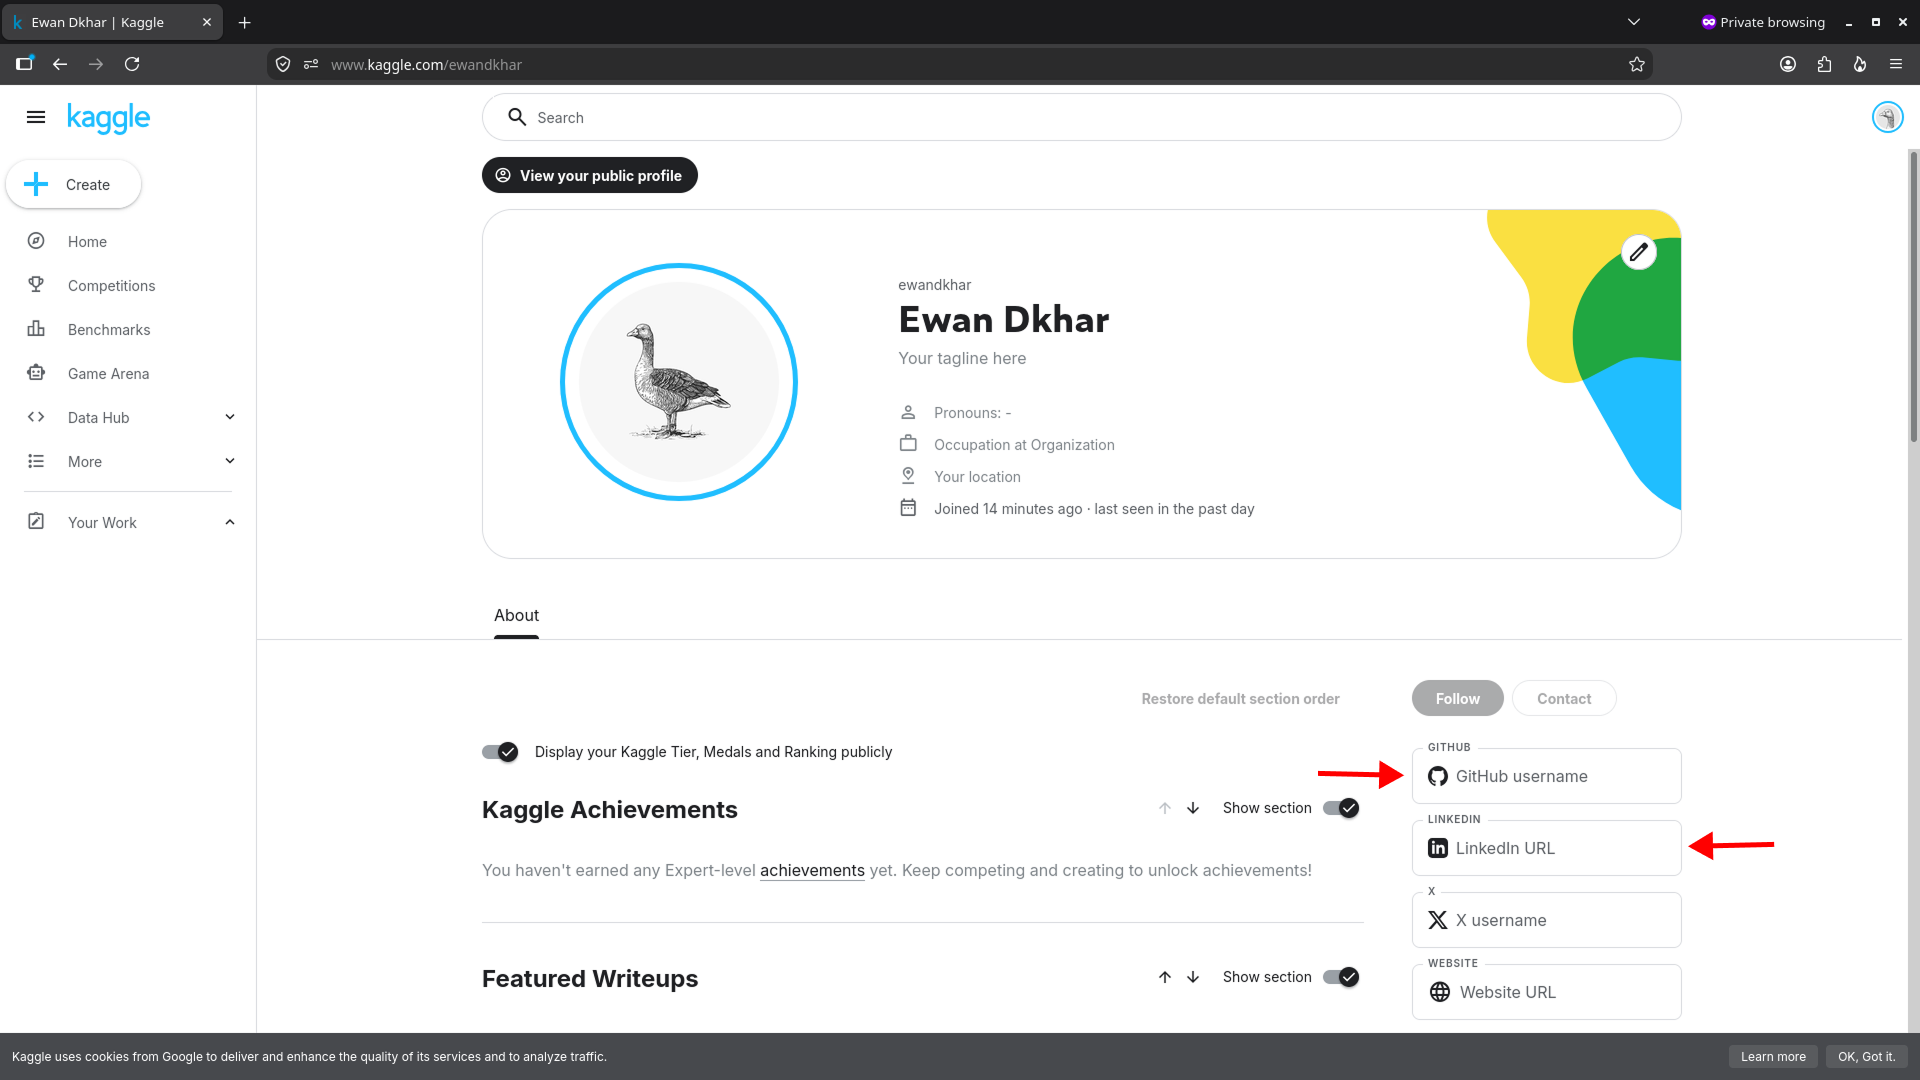
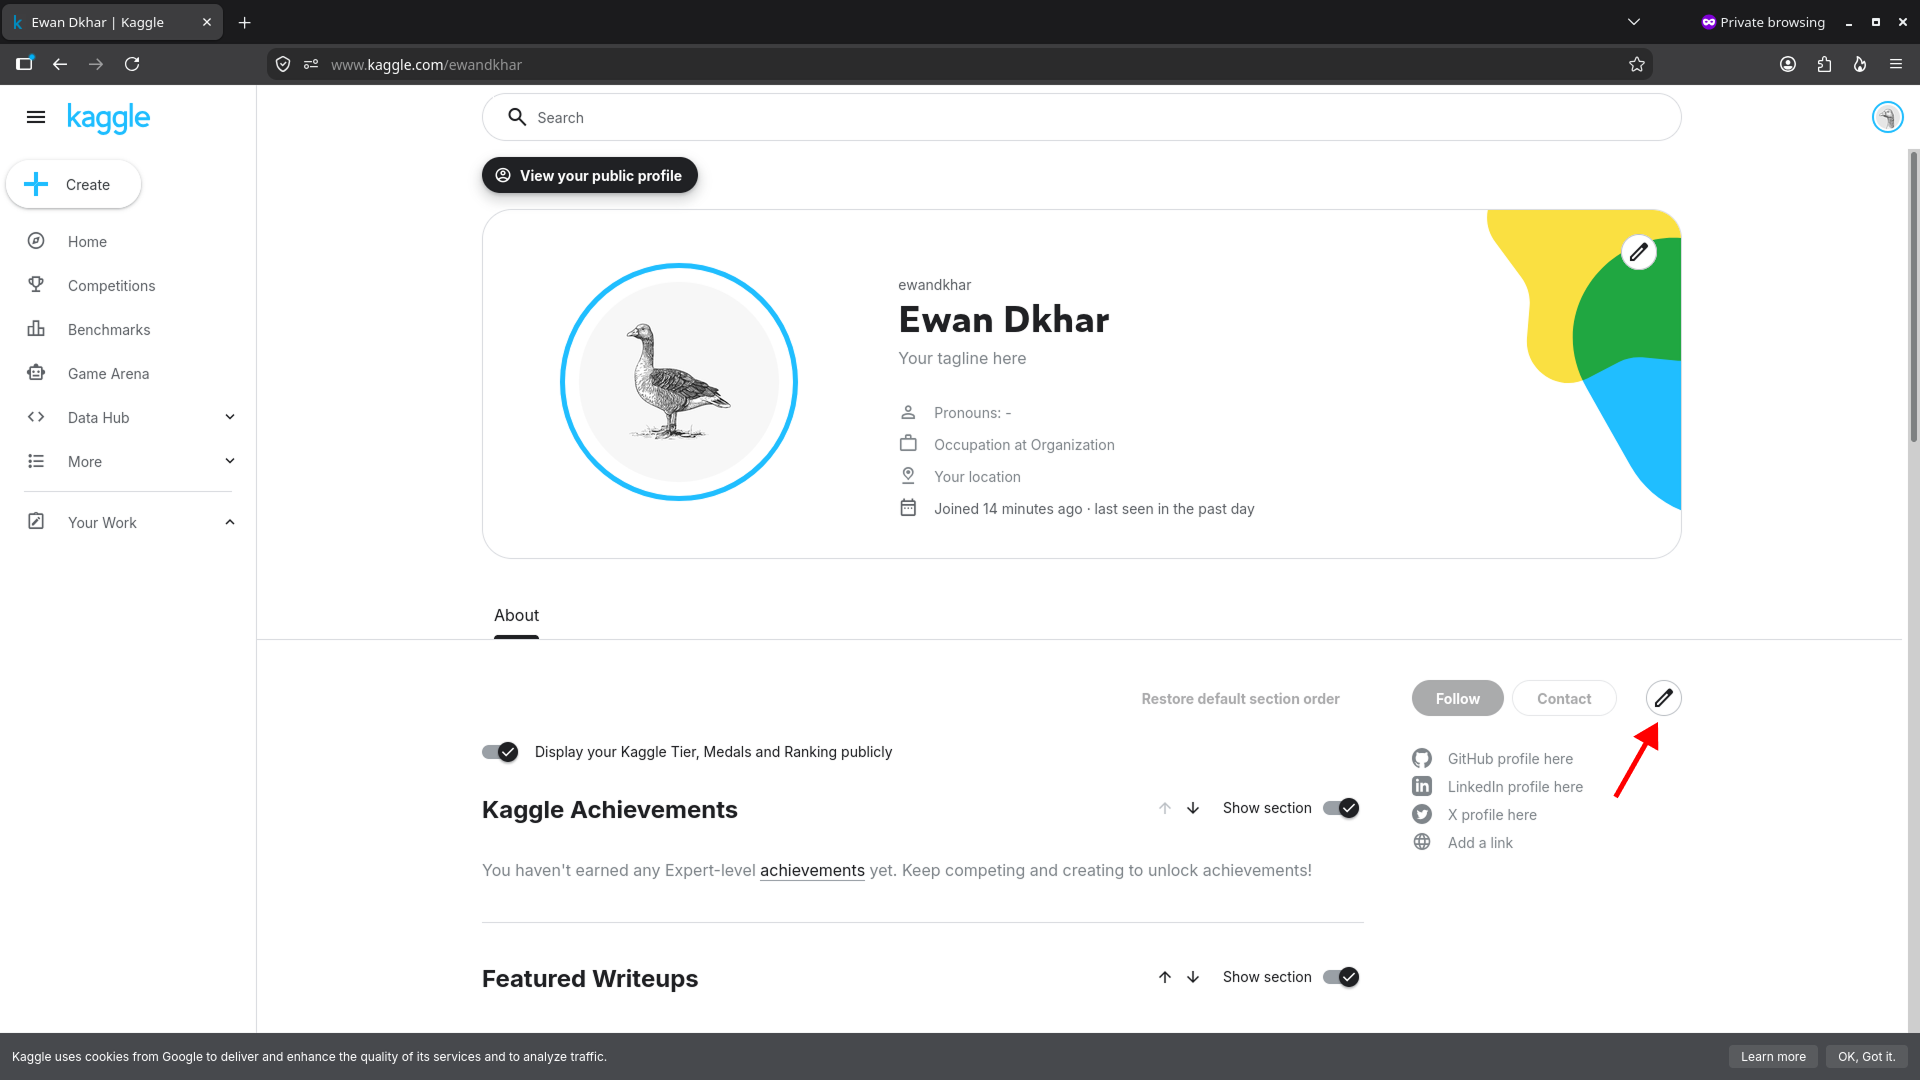
Add all visual description along with proper steps for setup

diff --git a/ml-setup.md b/ml-setup.md
@@ -4,19 +4,33 @@ Essential setup for Machine Learning & Data Science: local VS Code environment, 
 
 ---
 
+## 📑 Table of Contents
+
+- [1. Editor & Notebook Tooling (VS Code)](#1-editor--notebook-tooling-vs-code)
+- [2. Kaggle Account Setup](#2-kaggle-account-setup)
+  - [Step 1: Register an Account](#step-1-register-an-account)
+  - [Step 2: Phone Verification (Mandatory for Compute)](#step-2-phone-verification-mandatory-for-compute)
+  - [Step 3: Complete the Profile](#step-3-complete-the-profile)
+- [3. Hugging Face Account Setup](#3-hugging-face-account-setup)
+  - [Step 1: Sign Up & Verify Email](#step-1-sign-up--verify-email)
+  - [Step 2: Customize Profile Details](#step-2-customize-profile-details)
+- [Quick Verification Checklist](#-quick-verification-checklist)
+
+---
+
 ## 1. Editor & Notebook Tooling (VS Code)
 
 Open VS Code, click the **Extensions** icon on the left sidebar (shortcut: `Ctrl + Shift + X` on Windows/Linux, `Cmd + Shift + X` on Mac), search for the following extensions, and click **Install**:
 
-![VS Code Extensions Tab](images/vs-extension-1.png)
+![Click Extensions icon on VS Code activity bar](images/vs-extension-1.png)
 
 - [ ] **Python** (`ms-python.python`) & **Pylance** (`ms-python.vscode-pylance`): Autocomplete, type hints, and code navigation.
 - [ ] **Jupyter** (`ms-toolsai.jupyter`): Run `.ipynb` notebooks natively inside VS Code without launching a browser server.
 - [ ] **Ruff** (`charliermarsh.ruff`): Fast linting and code formatting built by the same creators as `uv`.
 
-![VS Code Extensions Search](images/vs-extension-2.png)  
+![Search for Python and Pylance in Extensions](images/vs-extension-2.png)  
 
-![VS Code Extensions Search](images/vs-extension-3.png)  
+![Click Install on the Python extension page](images/vs-extension-3.png)  
 
 ---
 
@@ -27,35 +41,47 @@ Kaggle is the standard community hub for datasets, competitions, and free cloud 
 ### Step 1: Register an Account
 1. Go to [kaggle.com](https://www.kaggle.com).
 2. Click **Register** in the top right.  
-   ![Kaggle Register Button](images/kaggle-setup-1.png)  
-3. Choose **Register with Google** for single-click sign-in, or use an email and password.
-   ![Kaggle Sign-up Modal](images/kaggle-setup-2.png)  
+   ![Click Register in the top-right corner of kaggle.com](images/kaggle-setup-1.png)  
+3. Choose **Register with Google** for single-click sign-in, or use an email and password.  
+   ![Choose Register with Google or Register with Email](images/kaggle-setup-2.png)  
 4. Set a professional username (this forms your public Kaggle portfolio URL: `kaggle.com/your-username`).  
-   ![Kaggle Sign-up Modal](images/kaggle-setup-3.png)  
+   ![Enter your full name and choose a public username](images/kaggle-setup-3.png)  
 
 ### Step 2: Phone Verification (Mandatory for Compute)
 > [!IMPORTANT]
 > By default, new accounts cannot turn on GPUs/TPUs or enable internet access inside notebooks.
 
 1. Click your profile avatar (top-right) $\rightarrow$ select **Settings**.  
-   ![Kaggle Avatar Settings](images/kaggle-setup-4.png)  
+   ![Click your profile avatar in the top-right corner](images/kaggle-setup-4.png)  
 
-   ![Kaggle Avatar Settings](images/kaggle-setup-5.png)  
-2. Scroll to the **Phone verification** section.
-   ![Kaggle Phone Verification](images/kaggle-setup-6.png)  
-3. Enter your phone number with your country code (e.g., `+91` for India) and verify the OTP sent via SMS.  
+   ![Select Settings from the user dropdown menu](images/kaggle-setup-5.png)  
+2. Scroll down to the **Phone verification** section and click **Phone verify**.  
+   ![Click Phone verify under the Phone verification section](images/kaggle-setup-6.png)  
+3. Enter your phone number with your country code (e.g., `+91` for India), complete the captcha, and verify the OTP sent via SMS.  
+   ![Enter country code, mobile number, and click Start verification](images/kaggle-setup-7.png)  
 4. ✅ Once verified, your account unlocks **~30 hours/week** of free GPU quota (T4 / P100) and internet access inside Kaggle kernels.
 
 ### Step 3: Complete the Profile
-   ![Kaggle Edit Profile](images/kaggle-setup-7.png)  
 
-1. Add a profile photo and short bio.
-2. Link your **GitHub** and **LinkedIn** profiles so competition rankings and public notebooks act as resume credentials.  
-   ![Kaggle Edit Profile](images/kaggle-setup-8.png)  
-
-   ![Kaggle Edit Profile](images/kaggle-setup-9.png)  
-
-   ![Kaggle Edit Profile](images/kaggle-setup-10.png)  
+1. Click your profile avatar $\rightarrow$ select **Your Profile**.  
+   ![Select Your Profile from the avatar dropdown menu](images/kaggle-setup-8.png)  
+2. Click **Edit your public profile**.  
+   ![Click Edit your public profile on your profile page](images/kaggle-setup-9.png)  
+3. Add a profile photo, display name, and tagline:  
+   - Click the pencil icon on the profile banner:  
+     ![Click the banner edit pencil icon](images/kaggle-profile-1.png)  
+   - Upload a photo, fill in your details, and click **Save changes**:  
+     ![Update profile photo, display name, tagline, and occupation](images/kaggle-profile-2.png)  
+4. Add a short bio:  
+   - Scroll down to the **Bio** section and click the pencil icon:  
+     ![Click the pencil icon next to the Bio section](images/kaggle-profile-3.png)  
+   - Enter your bio and click **Save**:  
+     ![Write your bio and click Save](images/kaggle-profile-4.png)  
+5. Link your **GitHub** and **LinkedIn** profiles so competition rankings and public notebooks act as resume credentials:  
+   - Click the pencil icon next to the social links section:  
+     ![Click the edit pencil icon next to social links](images/kaggle-setup-10.png)  
+   - Enter your GitHub username and LinkedIn URL:  
+     ![Enter GitHub username and LinkedIn URL](images/kaggle-setup-11.png)   
 
 ---
 
@@ -66,32 +92,21 @@ Hugging Face is the central repository for pre-trained weights (LLMs, vision mod
 ### Step 1: Sign Up & Verify Email
 1. Navigate to [huggingface.co](https://huggingface.co).
 2. Click **Sign Up** in the top-right corner.  
-   ![Hugging Face Sign Up](images/placeholder-hf-signup.png)  
-   *📸 Screenshot: Click "Sign Up" in the top-right corner*
-3. Enter your email, password, and choose a username (e.g., `huggingface.co/your-username`).
-4. **Immediate Action:** Check your inbox and click the verification link.  
+   ![Click Sign Up in the top-right corner of huggingface.co](images/huggingface-setup-1.png)  
+3. Enter your email and password, then click **Next**.  
+   ![Enter your email address and password](images/huggingface-setup-2.png)  
+4. Fill in your username, full name, agree to the Terms of Service, and click **Create Account**.  
+   ![Choose a username, enter full name, and click Create Account](images/huggingface-setup-3.png)  
    > [!WARNING]
-   > Hugging Face disables community interactions, dataset forks, and gated model access until your email is confirmed.  
-   ![Hugging Face Email Verification](images/placeholder-hf-email-verify.png)  
-   *📸 Screenshot: Confirmation email in inbox with verification link*
+   > Hugging Face disables community interactions, dataset forks, and model access until your email is confirmed. Open your inbox and click the verification link immediately.
 
-### Step 2: Accept Community & Gated Model Terms
-Many popular model weights (such as Meta's Llama series, Mistral, or Google's Gemma) are **gated models**. Freshers need an account to view and request access:
+### Step 2: Customize Profile Details
+1. Click your profile avatar (top-right) $\rightarrow$ select **Settings**.  
+   ![Click your profile avatar in the top navigation bar](images/huggingface-setup-4.png)  
 
-1. Search for a gated model (e.g., search `meta-llama/Llama-3.2-1B`).  
-   ![Search Gated Model](images/placeholder-hf-search-model.png)  
-   *📸 Screenshot: Search bar finding `meta-llama/Llama-3.2-1B`*
-2. Read and agree to the license agreement on the model card.
-3. Click **Acknowledge license / Request access**.  
-   ![Request Access](images/placeholder-hf-request-access.png)  
-   *📸 Screenshot: Model card page showing "Acknowledge license / Request access" button*
-4. Once approved (most are instantaneous), the account is permanently cleared to view the model weights and documentation.
-
-### Step 3: Customize Profile Details
-1. Go to **Settings** $\rightarrow$ **Profile**.  
-   ![Hugging Face Profile Settings](images/placeholder-hf-settings-profile.png)  
-   *📸 Screenshot: Profile avatar $\rightarrow$ Settings $\rightarrow$ Profile*
-2. Fill in your GitHub handle, social links, and research interests (e.g., NLP, Computer Vision).
+   ![Select Settings from the avatar dropdown](images/huggingface-setup-5.png)  
+2. Under **Profile Settings**, add your profile photo, GitHub handle, and social links:  
+   ![Update profile avatar, full name, GitHub handle, and click Save changes](images/huggingface-setup-6.png)  
 3. Any public Spaces (demo apps using Gradio/Streamlit) or custom datasets you create will appear under this profile.
 
 ---
@@ -102,5 +117,4 @@ Many popular model weights (such as Meta's Llama series, Mistral, or Google's Ge
 - [ ] Registered Kaggle account and completed **Phone Verification** (GPU unlocked)
 - [ ] Added Kaggle profile photo, bio, and linked GitHub/LinkedIn
 - [ ] Registered Hugging Face account and **verified email**
-- [ ] Requested access to a gated model (e.g., Llama 3.2 / Gemma)
 - [ ] Added GitHub and research interests to Hugging Face profile
